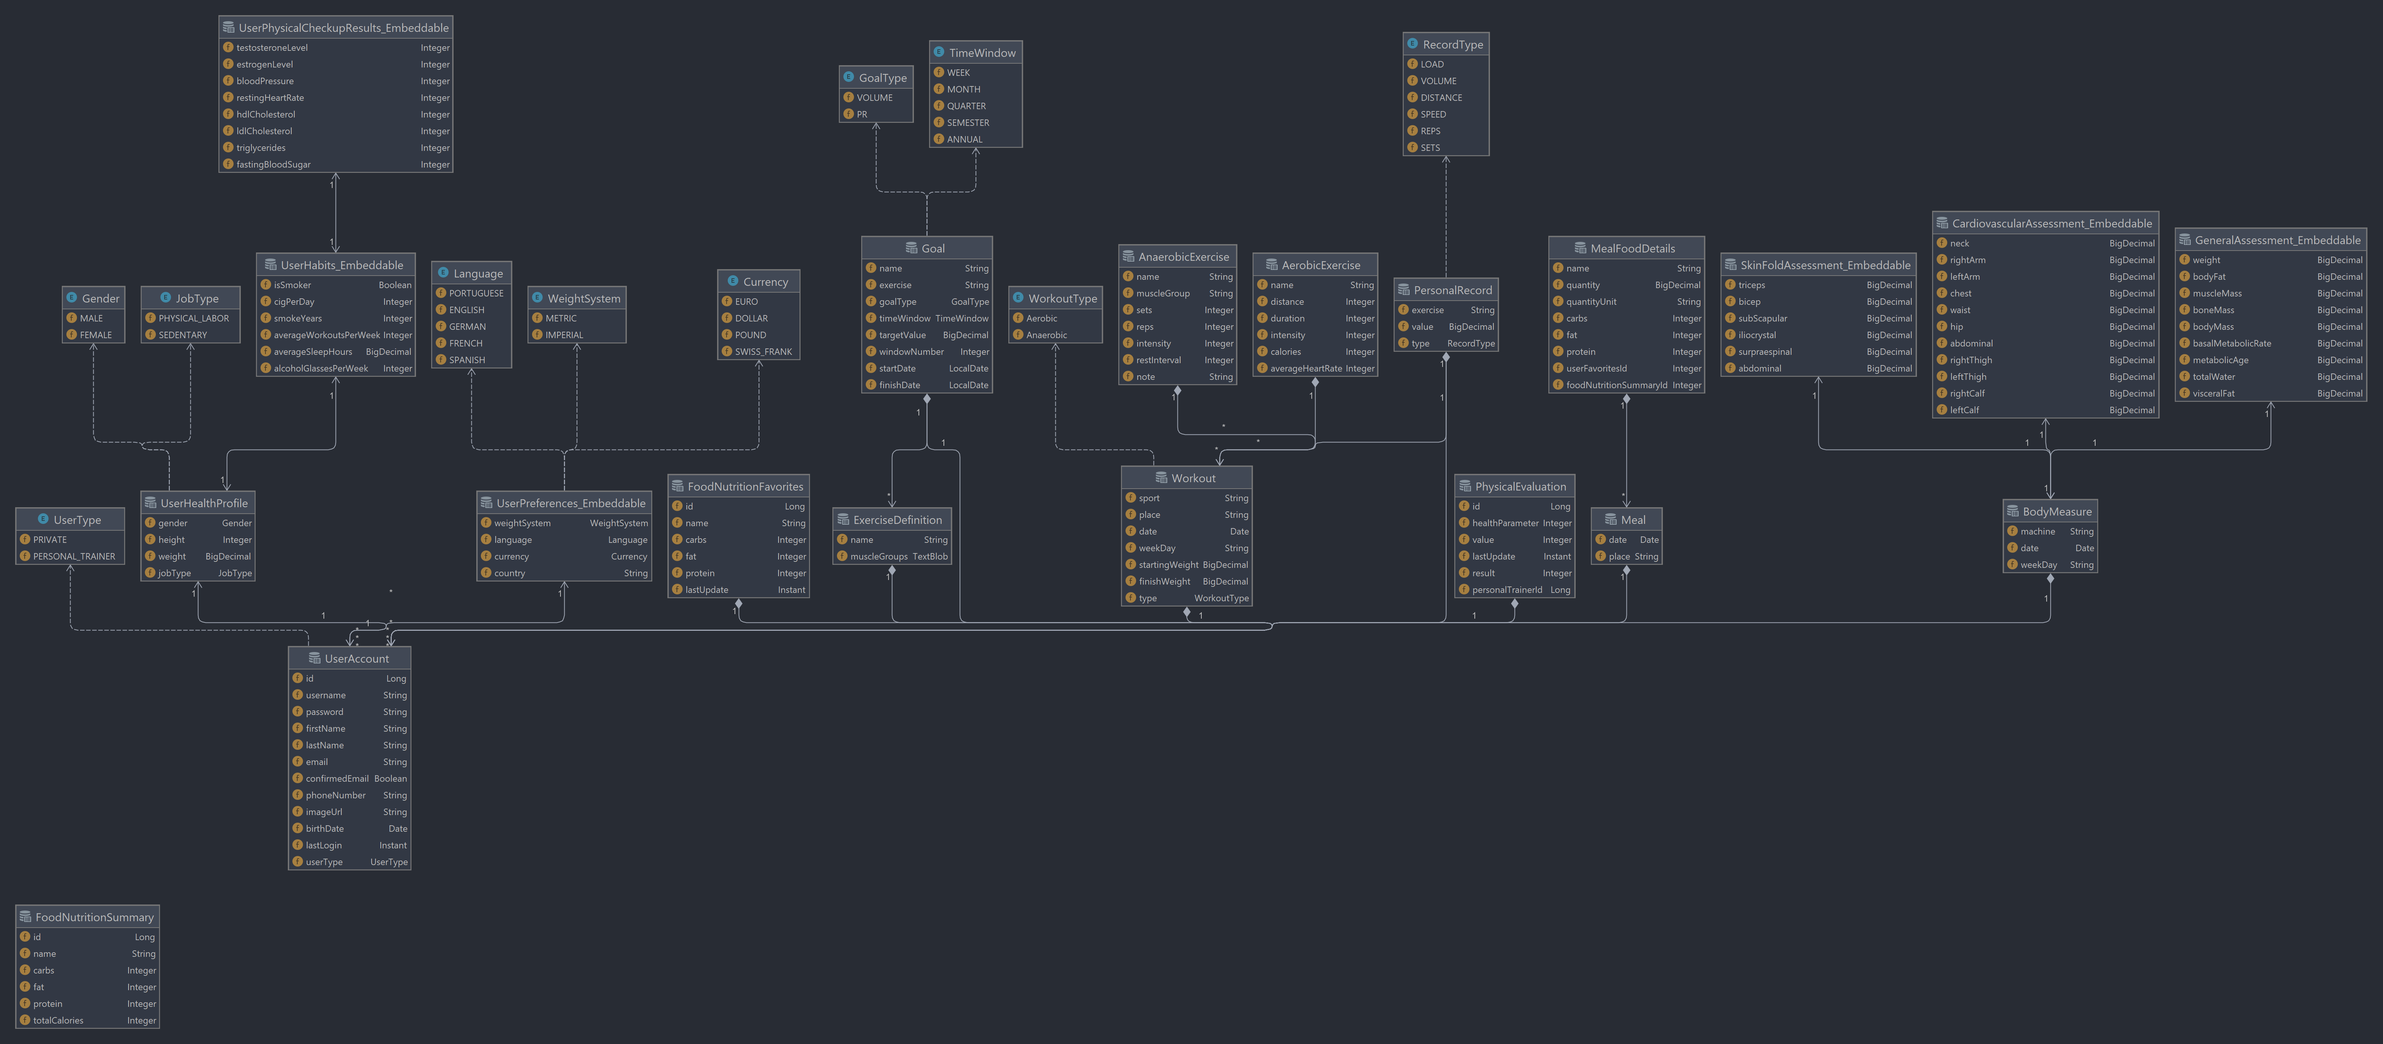
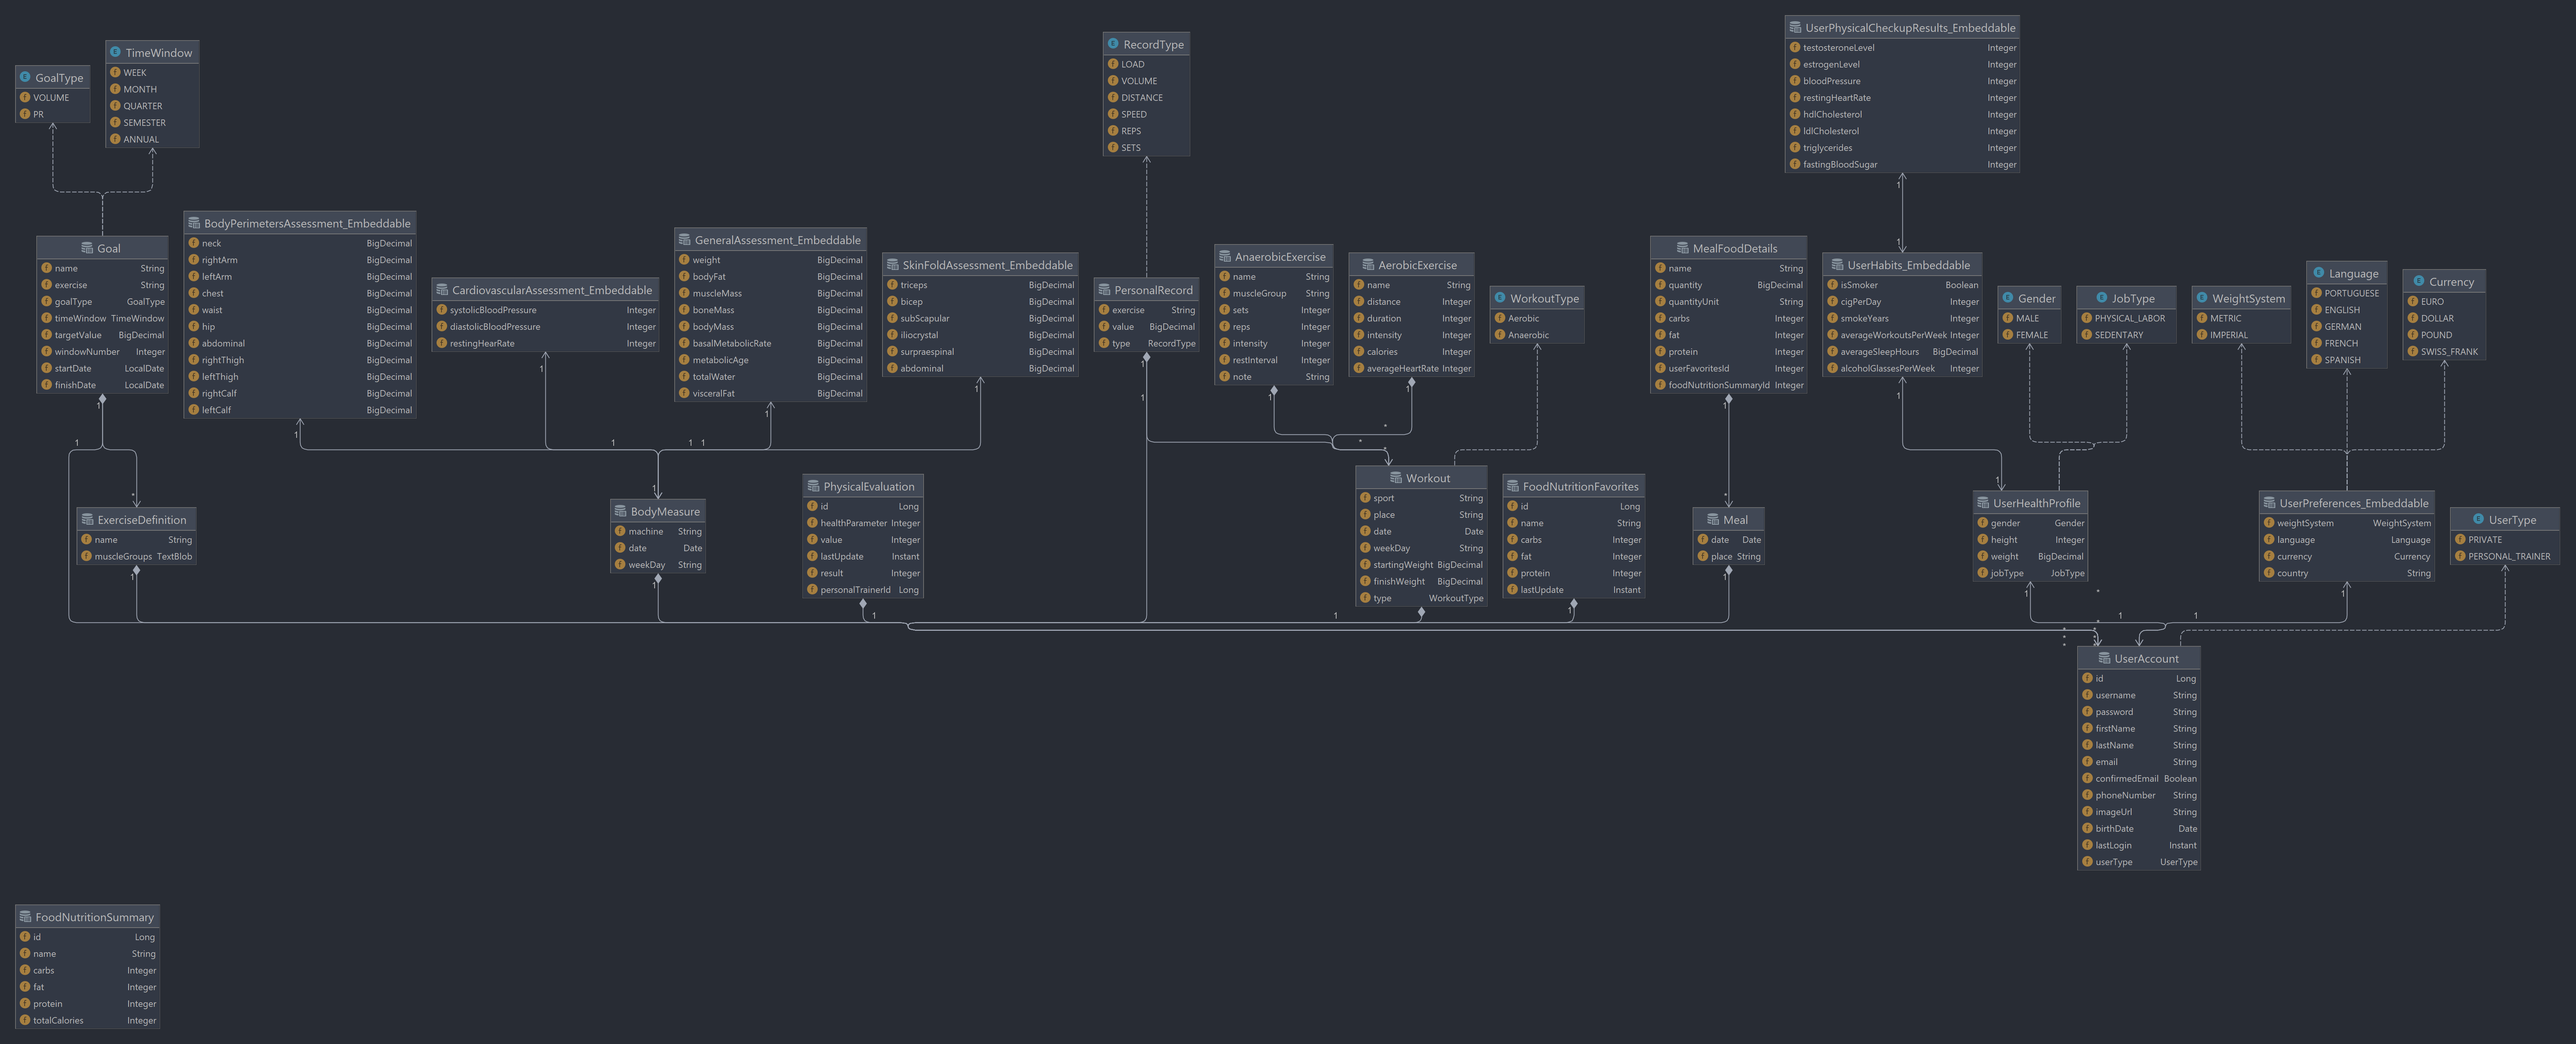
added body perimeter assessment

diff --git a/src/main/java/com/myhealth/healthmanagermain/domain/BodyPerimeterAssessment.java b/src/main/java/com/myhealth/healthmanagermain/domain/BodyPerimeterAssessment.java
@@ -1,0 +1,25 @@
+package com.myhealth.healthmanagermain.domain;
+
+import javax.persistence.Embeddable;
+import lombok.Getter;
+import lombok.Setter;
+import lombok.ToString;
+
+@Getter
+@Setter
+@ToString
+@Embeddable
+public class BodyPerimeterAssessment {
+
+  private Float neck;
+  private Float rightArm;
+  private Float leftArm;
+  private Float chest;
+  private Float waist;
+  private Float hip;
+  private Float abdominal;
+  private Float rightThigh;
+  private Float leftThigh;
+  private Float rightCalf;
+  private Float leftCalf;
+}

diff --git a/src/main/java/com/myhealth/healthmanagermain/domain/CardiovascularAssessment.java b/src/main/java/com/myhealth/healthmanagermain/domain/CardiovascularAssessment.java
@@ -11,15 +11,8 @@ import lombok.ToString;
 @Embeddable
 public class CardiovascularAssessment {
 
-  private Float neck;
-  private Float rightArm;
-  private Float leftArm;
-  private Float chest;
-  private Float waist;
-  private Float hip;
-  private Float abdominal;
-  private Float rightThigh;
-  private Float leftThigh;
-  private Float rightCalf;
-  private Float leftCalf;
+  private Integer systolicBloodPressure;
+  private Integer diastolicBloodPressure;
+  private Integer restingHearRate;
+
 }

diff --git a/src/main/java/com/myhealth/healthmanagermain/domain/SkinFoldAssessment.java b/src/main/java/com/myhealth/healthmanagermain/domain/SkinFoldAssessment.java
@@ -11,10 +11,10 @@ import lombok.ToString;
 @Embeddable
 public class SkinFoldAssessment {
 
-  private Float triceps;
-  private Float bicep;
-  private Float subScapular;
-  private Float iliocrystal;
-  private Float surpraespinal;
-  private Float abdominal;
+  private Float tricepsFold;
+  private Float bicepFold;
+  private Float subScapularFold;
+  private Float iliocrystalFold;
+  private Float surpraespinalFold;
+  private Float abdominalFold;
 }

diff --git a/src/main/java/com/myhealth/healthmanagermain/domain/BodyMeasure.java b/src/main/java/com/myhealth/healthmanagermain/domain/BodyMeasure.java
@@ -61,6 +61,9 @@ public class BodyMeasure {
   private CardiovascularAssessment cardiovascularAssessment;
 
   @Embedded
+  private BodyPerimeterAssessment bodyPerimeterAssessment;
+
+  @Embedded
   private SkinFoldAssessment skinFoldAssessment;
 
   @ManyToOne(optional = false, fetch = FetchType.LAZY)
